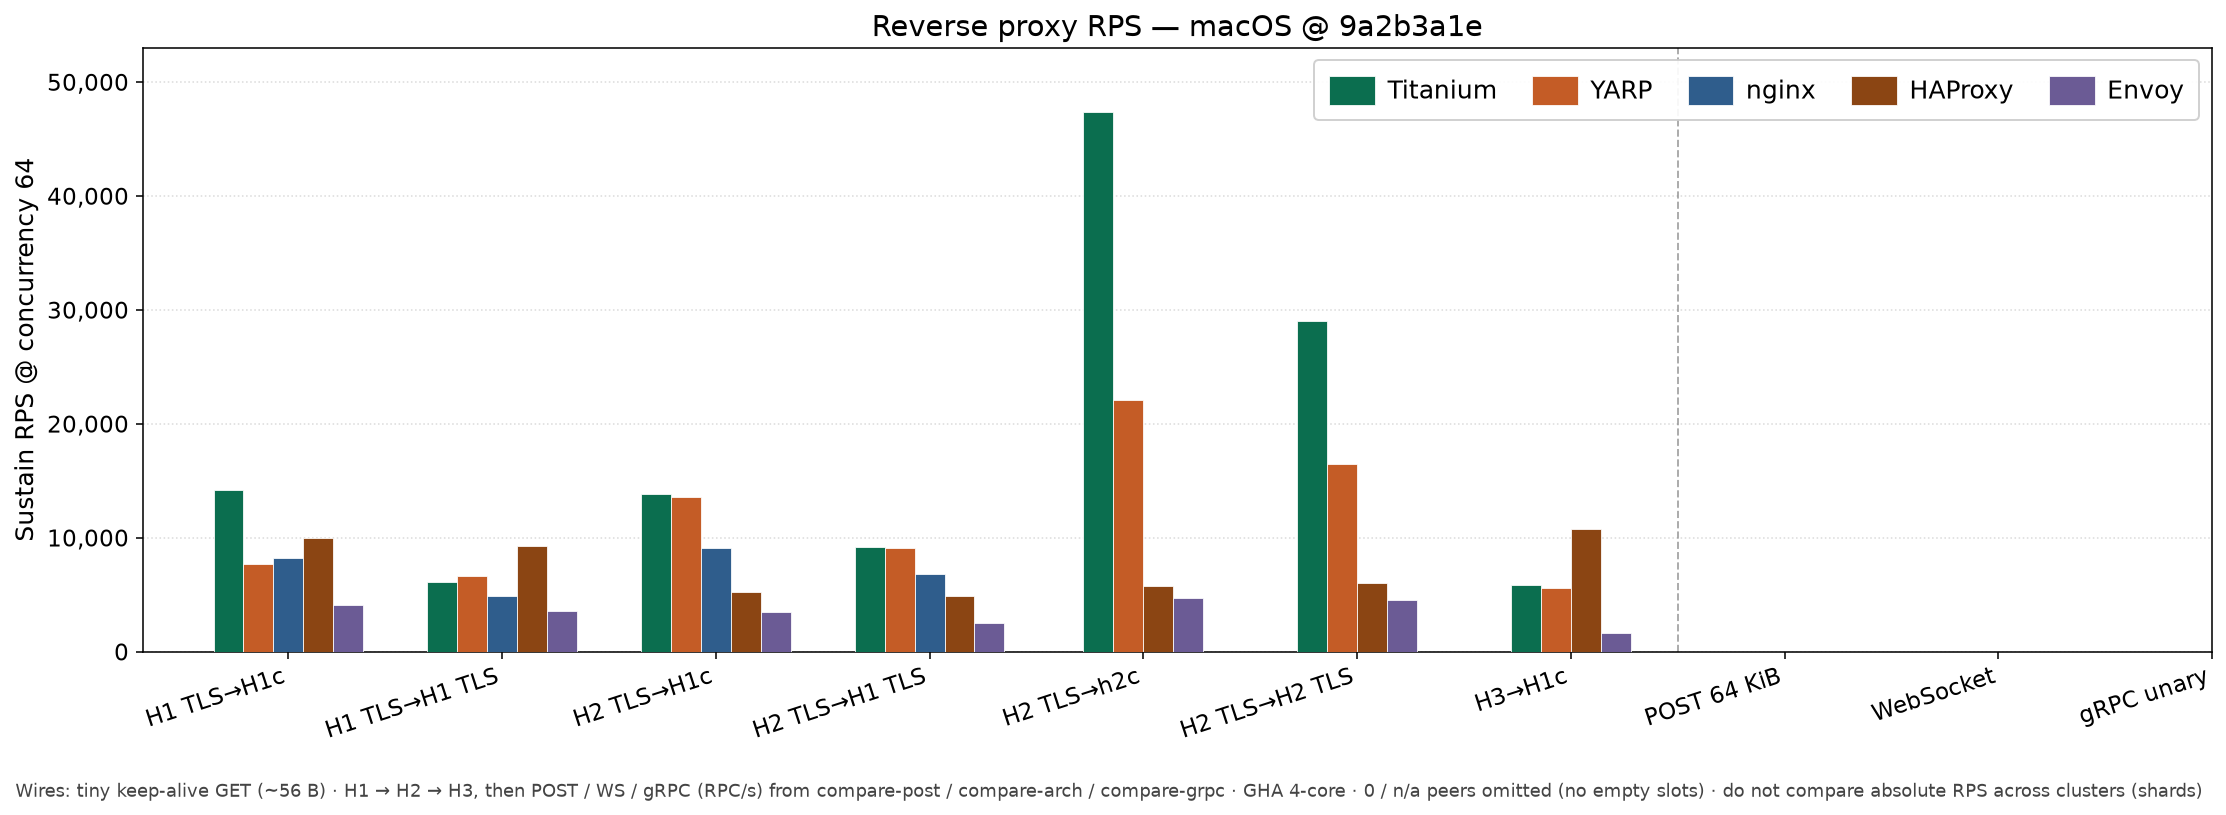
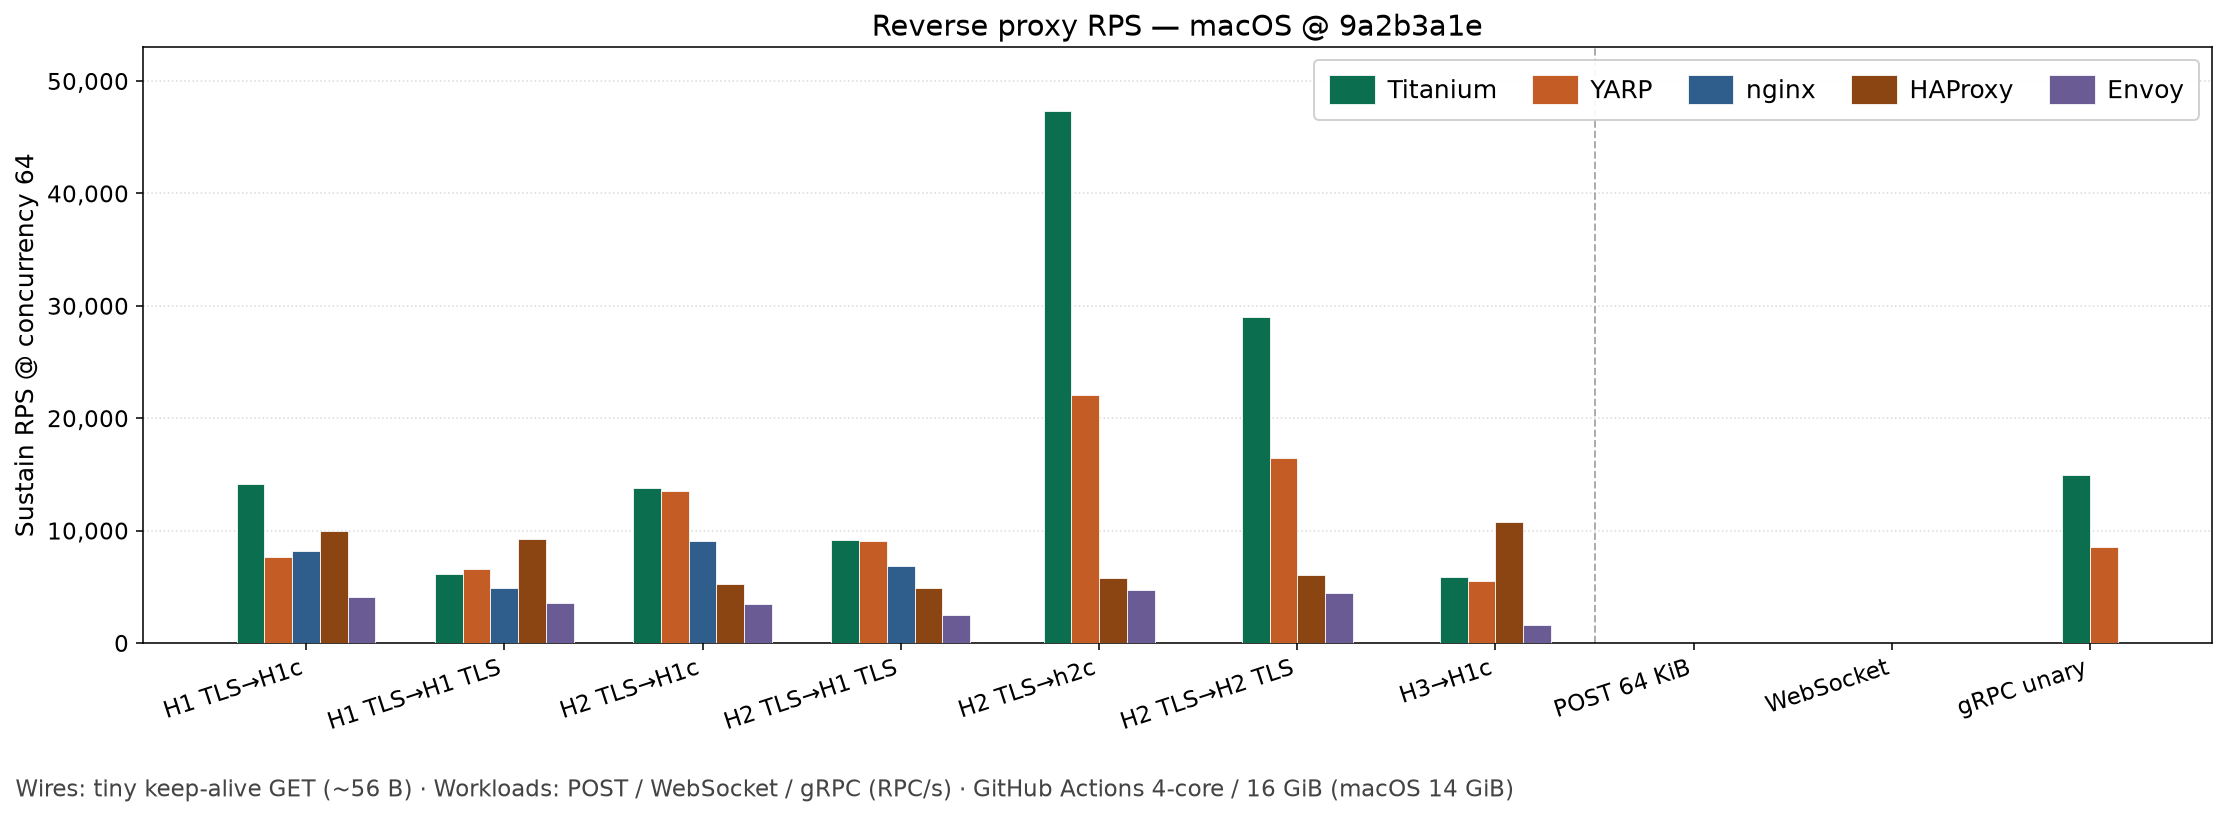
Simplify practical chart footer: wires, workloads, runner shape.
Drop best-case / n/a / cross-cluster caveats; say GitHub Actions with
4-core and RAM; bump footer font size.

diff --git a/tools/RpsLoadProbe/render-practical-charts.py b/tools/RpsLoadProbe/render-practical-charts.py
@@ -142,10 +142,8 @@ OS_SPECS = (
 )
 
 MERGED_FOOTER = (
-    "Wires: tiny keep-alive GET (~56 B) · H1 → H2 → H3, then POST / WS / gRPC "
-    "(RPC/s) from compare-post / compare-arch / compare-grpc · GHA 4-core · "
-    "0 / n/a peers omitted (no empty slots) · do not compare absolute RPS across "
-    "clusters (shards)"
+    "Wires: tiny keep-alive GET (~56 B) · Workloads: POST / WebSocket / gRPC (RPC/s) · "
+    "GitHub Actions 4-core / 16 GiB (macOS 14 GiB)"
 )
 
 # Practical wire label → (client, origin) cells in wiki Performance.md reverse tables.
@@ -646,10 +644,10 @@ def render_chart(
         0.01,
         0.01,
         footer or MERGED_FOOTER,
-        fontsize=9,
+        fontsize=12,
         color="#444444",
     )
-    fig.tight_layout(rect=(0, 0.05, 1, 1))
+    fig.tight_layout(rect=(0, 0.06, 1, 1))
     out_path.parent.mkdir(parents=True, exist_ok=True)
     fig.savefig(out_path, bbox_inches="tight")
     plt.close(fig)
